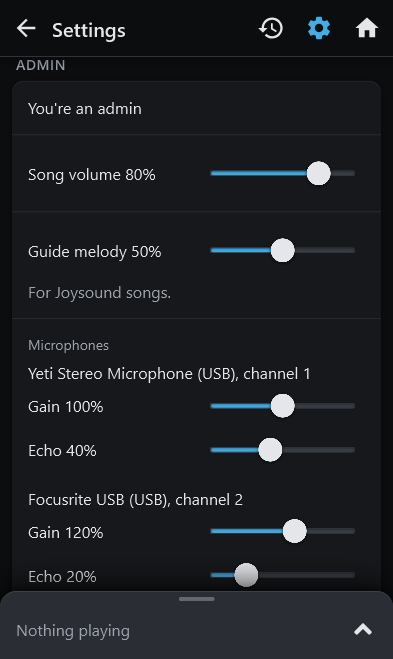
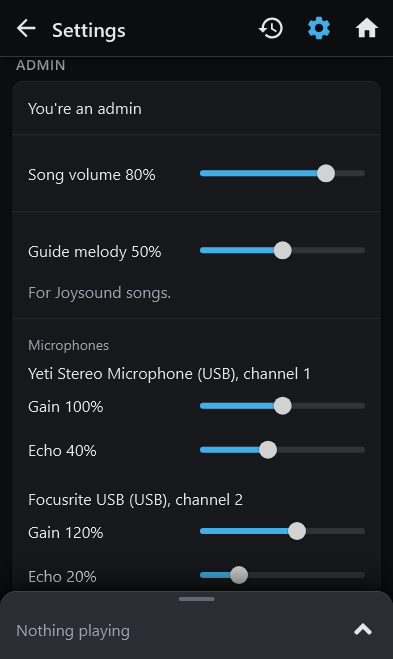
Phone: the phone's own sliders again
The glass round the sliders was iOS's own effect; the user wants iOS's
slider back. The phone uses the browser's range input, tinted with the
accent; the drawn track and its tokens are gone. The TV keeps its own.

Claude-Session: https://claude.ai/code/session_01QVeND4kYoaNT3AJXVU9A6p

diff --git a/src/remocon/tokens.scss b/src/remocon/tokens.scss
@@ -56,8 +56,6 @@ $kf-line: var(--kf-line);
 $kf-border: var(--kf-border);
 // The edge of a field or an outlined control.
 $kf-border-strong: var(--kf-border-strong);
-// A slider's track past its value.
-$kf-track: var(--kf-track);
 $kf-text: var(--kf-text);
 // Secondary text: artists, ETAs, labels.
 $kf-muted: var(--kf-muted);
@@ -88,13 +86,8 @@ $kf-shadow-menu: var(--kf-shadow-menu);
 $kf-shadow-raise: var(--kf-shadow-raise);
 // A raised button in $kf-raised: the light edge and the raise.
 $kf-shadow-button: var(--kf-shadow-button);
-// Below the surface: a field, a track, the well.
+// Below the surface: a field, the choices' track, the well.
 $kf-shadow-sunken: var(--kf-shadow-sunken);
-// A slider's track: a hairline round it and the inner shadow.
-$kf-shadow-track: var(--kf-shadow-track);
-// The raise as a filter, for a shape a box-shadow wouldn't follow (a
-// slider's dot).
-$kf-drop-raise: var(--kf-drop-raise);
 // The sheet's controls, a toolbar under the queue: a hairline and a short
 // shadow upward.
 $kf-shadow-toolbar: var(--kf-shadow-toolbar);
@@ -125,10 +118,6 @@ $kf-shadow-toolbar: var(--kf-shadow-toolbar);
   // its inner shadow and its label, it's plainly a field; focused, the
   // accent (7.8:1) takes its place.
   --kf-border-strong: #3a3e46;
-  // A groove a step lighter than the card (1.7:1, with the inner shadow),
-  // so a slider at 0 still shows its track; the accent filling it to the
-  // value is 4.3:1 against it, and the thumb 8.6:1.
-  --kf-track: #3a3e46;
   // 15.5:1 (14.2:1 on a card, 11.0:1 on the sheet, 9.4:1 pressed there)
   --kf-text: #{$text};
   // 7.6:1 (7.0:1 on a card or in the well, 6.1:1 pressed; 5.4:1 on the
@@ -167,12 +156,9 @@ $kf-shadow-toolbar: var(--kf-shadow-toolbar);
     inset 0 1px 0 rgba(255, 255, 255, 0.06), 0 1px 2px rgba(0, 0, 0, 0.55),
     0 2px 6px rgba(0, 0, 0, 0.3);
   --kf-shadow-sunken: inset 0 1px 3px rgba(0, 0, 0, 0.55);
-  --kf-shadow-track:
-    inset 0 0 0 1px #{$border}, inset 0 1px 3px rgba(0, 0, 0, 0.55);
   --kf-shadow-toolbar:
     inset 0 1px 0 rgba(255, 255, 255, 0.06), 0 -1px 0 rgba(0, 0, 0, 0.45),
     0 -4px 10px rgba(0, 0, 0, 0.25);
-  --kf-drop-raise: drop-shadow(0 1px 2px rgba(0, 0, 0, 0.6));
 }
 
 // The light theme ("Graphite light"), for a bright room or a phone in
@@ -199,10 +185,6 @@ $kf-shadow-toolbar: var(--kf-shadow-toolbar);
   // A field's edge: 3.3:1, the 3:1 a component's boundary needs (3.8:1 on
   // a card, 3.5:1 on a field's fill).
   --kf-border-strong: #7d848e;
-  // A grey groove, 1.6:1 on a card (with the inner shadow), so a slider at
-  // 0 still shows its track; the accent filling it to the value is 3.7:1
-  // against it.
-  --kf-track: #c9ced5;
   // 14.8:1 (17.1:1 on a card or the sheet, 15.1:1 pressed)
   --kf-text: #{$text};
   // 5.3:1 (6.2:1 on a card or the sheet, 5.5:1 pressed; 5.3:1 in the well,
@@ -248,12 +230,8 @@ $kf-shadow-toolbar: var(--kf-shadow-toolbar);
     0 1px 2px #{color.change($shade, $alpha: 0.12)},
     0 1px 4px #{color.change($shade, $alpha: 0.08)};
   --kf-shadow-sunken: inset 0 1px 2px #{color.change($shade, $alpha: 0.12)};
-  --kf-shadow-track:
-    inset 0 0 0 1px #{color.change($shade, $alpha: 0.1)},
-    inset 0 1px 2px #{color.change($shade, $alpha: 0.12)};
   --kf-shadow-toolbar:
     0 -1px 0 #{$border}, 0 -4px 10px #{color.change($shade, $alpha: 0.05)};
-  --kf-drop-raise: drop-shadow(0 1px 2px #{color.change($shade, $alpha: 0.3)});
 }
 
 // Spacing.

diff --git a/src/remocon/pages/SettingsPage.module.scss b/src/remocon/pages/SettingsPage.module.scss
@@ -85,101 +85,15 @@
   font-size: $kf-text-body;
 }
 
-// The thumb as seen, and the track's height.
-$dot: 24px;
-$track: 6px;
-// How far the thumb's tap target reaches past its dot on each side.
-$dot-inset: calc(($kf-tap - $dot) / 2);
-
-// iOS moves a range input only from its thumb: a full tap target, of
-// which the transparent border leaves a solid dot to see, in the text's
-// color, so it shows on the fill and on the empty track alike.
-@mixin thumb {
-  box-sizing: border-box;
-  width: $kf-tap;
-  height: $kf-tap;
-  border: $dot-inset solid transparent;
-  border-radius: 50%;
-  background-color: $kf-text;
-  background-clip: padding-box;
-  // Raised: a shadow on the dot (a box-shadow would ring the tap target).
-  filter: $kf-drop-raise;
-  appearance: none;
-}
-
-// The slider: a sunken track filled with the accent up to the value, which
-// --kf-fill gives as a percent, and a solid, raised thumb. Drawn here in full:
-// iOS's own thumb is glass unless the input and its thumb both have
-// appearance: none.
-//
-// The track is drawn behind the input, from the dot's left edge at the
-// lowest value to its right edge at the highest, so the edge of the fill
-// is always under the dot. The input's own track is clear: it reaches
-// further, as far as the tap target travels.
-.track {
-  position: relative;
-  display: flex;
+// The slider itself is the phone's own (on an iPhone, iOS's), tinted with
+// the accent where the browser allows, and a full tap target tall.
+.slider input {
   min-width: 0;
+  width: 100%;
+  height: $kf-tap;
+  margin: 0;
+  accent-color: $kf-accent;
+  cursor: pointer;
 
-  &::before {
-    content: "";
-    position: absolute;
-    top: calc(50% - $track / 2);
-    right: $dot-inset;
-    left: $dot-inset;
-    height: $track;
-    border-radius: calc($track / 2);
-    background: linear-gradient(
-      to right,
-      $kf-accent var(--kf-fill),
-      $kf-track var(--kf-fill)
-    );
-    // Sunk into the card, as a field is.
-    box-shadow: $kf-shadow-track;
-  }
-
-  input {
-    // Over the track.
-    position: relative;
-    flex: 1;
-    min-width: 0;
-    height: $kf-tap;
-    margin: 0;
-    background: none;
-    appearance: none;
-    cursor: pointer;
-
-    &::-webkit-slider-runnable-track {
-      height: $track;
-      background: none;
-    }
-
-    &::-moz-range-track {
-      height: $track;
-      background: none;
-    }
-
-    &::-webkit-slider-thumb {
-      @include thumb;
-      // Centered on the track.
-      margin-top: calc(($track - $kf-tap) / 2);
-    }
-
-    &::-moz-range-thumb {
-      @include thumb;
-    }
-
-    // The dot a step larger while held.
-    @include kf-pressed {
-      &::-webkit-slider-thumb {
-        border-width: calc($dot-inset - 2px);
-      }
-
-      &::-moz-range-thumb {
-        border-width: calc($dot-inset - 2px);
-      }
-    }
-
-    @include kf-focus-visible;
-  }
+  @include kf-focus-visible;
 }

diff --git a/tests/e2e/remote.spec.ts b/tests/e2e/remote.spec.ts
@@ -13,7 +13,6 @@ import {
   displayCall,
   expect,
   NICKNAME,
-  sliderFill,
   test,
 } from "./fixtures";
 
@@ -1822,14 +1821,11 @@ test.describe("the guide melody slider", () => {
     await expect(slider).toBeEnabled();
     await expect(slider).toHaveValue("0");
     expect((await slider.boundingBox())!.height).toBeGreaterThanOrEqual(44);
-    // Its track is filled with the accent up to the level: none at 0.
-    expect(await sliderFill(slider)).toBe(0);
     await slider.fill("0.7");
     await expect
       .poll(async () => (await liveState(remoconUrl)).guideMelodyLevel)
       .toBe(0.7);
     await expect(slider).toHaveValue("0.7");
-    expect(await sliderFill(slider)).toBeCloseTo(70);
     // Its label shows the level in percent.
     await expect(remote.getByText("Guide melody 70%")).toBeVisible();
 
@@ -1848,9 +1844,6 @@ test.describe("the guide melody slider", () => {
     await remote.mouse.move(box.x + box.width * 0.3, y, { steps: 10 });
     await expect(slider).not.toHaveValue("0.7");
     expect(sent).toEqual([]);
-    // Held, its track fills to where the thumb is.
-    const held = Number(await slider.inputValue());
-    await expect.poll(() => sliderFill(slider)).toBeCloseTo(held * 100);
     await remote.mouse.up();
     const level = Number(await slider.inputValue());
     expect(level).toBeLessThan(0.6);
@@ -1907,7 +1900,6 @@ test.describe("the song volume and mic sliders", () => {
       .toBe(40);
     await expect(volume).toHaveValue("40");
     await expect(remote.getByText("Song volume 40%")).toBeVisible();
-    expect(await sliderFill(volume)).toBe(40);
   });
 
   test("a slider dragged back to where it started follows the live level again", async ({
@@ -1996,9 +1988,6 @@ test.describe("the song volume and mic sliders", () => {
     // The labels show the levels, as the display's do.
     await expect(remote.getByText("Gain 123%")).toBeVisible();
     await expect(remote.getByText("Echo 40%")).toBeVisible();
-    // The tracks fill to them: gain out of 200 %, echo out of 100 %.
-    expect(await sliderFill(slider(mics[1], "Gain"))).toBeCloseTo(61.5);
-    expect(await sliderFill(slider(mics[1], "Echo"))).toBe(0);
 
     await slider(mics[1], "Echo").fill("63");
     await expect.poll(() => sent).toEqual([{ id: mics[1].id, echo: 63 }]);
@@ -2006,7 +1995,6 @@ test.describe("the song volume and mic sliders", () => {
       .poll(async () => (await liveState(karafriends.remoconUrl)).mics)
       .toEqual([mics[0], { ...mics[1], echo: 63 }]);
     await expect(slider(mics[1], "Echo")).toHaveValue("63");
-    expect(await sliderFill(slider(mics[1], "Echo"))).toBe(63);
   });
 });
 

diff --git a/src/remocon/pages/SettingsPage.tsx b/src/remocon/pages/SettingsPage.tsx
@@ -232,30 +232,26 @@ const LevelSlider = ({
   });
 
   const shown = held ?? value;
-  // The track fills to the value, held or live (SettingsPage.module.scss).
-  const fill = { "--kf-fill": `${((shown - min) / (max - min)) * 100}%` };
 
   return (
     <label className={styles.slider}>
       {`${label} ${Math.round(shown * scale)}%`}
-      <span className={styles.track} style={fill as React.CSSProperties}>
-        <input
-          ref={input}
-          aria-label={name}
-          type="range"
-          min={min}
-          max={max}
-          step={step}
-          value={shown}
-          onChange={(e) => setHeld(Number(e.target.value))}
-          onPointerDown={(e) => (start.current = e.currentTarget.value)}
-          onPointerUp={(e) => {
-            if (e.currentTarget.value === start.current) setHeld(null);
-          }}
-          onPointerCancel={() => setHeld(null)}
-          onBlur={() => setHeld(null)}
-        />
-      </span>
+      <input
+        ref={input}
+        aria-label={name}
+        type="range"
+        min={min}
+        max={max}
+        step={step}
+        value={shown}
+        onChange={(e) => setHeld(Number(e.target.value))}
+        onPointerDown={(e) => (start.current = e.currentTarget.value)}
+        onPointerUp={(e) => {
+          if (e.currentTarget.value === start.current) setHeld(null);
+        }}
+        onPointerCancel={() => setHeld(null)}
+        onBlur={() => setHeld(null)}
+      />
     </label>
   );
 };

diff --git a/CHANGELOG.md b/CHANGELOG.md
@@ -50,7 +50,7 @@ The product round: the phone remote, the display, settings and party-time failur
 - Phone sheet: the now-playing sheet is a lighter layer above the lists, with rounded top corners, a grab handle and a stronger shadow, and the queue's rows sit on it with no fill of their own (in the light theme, a white sheet over a light grey page and lists). The song playing shows only on the bar, under a "Now playing" label; the open queue lists just the songs waiting, under "Up next". Once open, the bar's title opens the song's page (for ad-hoc lyrics) and folds the sheet.
 - Phone search takes less room: Title and Artist are two small chips on one row under the box, and the source (All, DAM or Joysound) moves into a small menu behind a button at the row's end, which shows the source when it isn't All. The profile is now Settings (a gear in the top bar, 設定 in Japanese), in groups (You, This phone, On the TV, Admin), and its choices (Language, Readings, Theme, and the lyrics on the TV, also on a Joysound song's page) are one rounded row with the picked one filled and ticked. Old links to the profile still open it.
 - The TV's Up next (the strip and the idle list) shows each singer as the initial in its circle, without the nickname; the Now playing card keeps it. A title or artist too long for its place, on the TV or the phone (search results, the queue, history, the now-playing bar, the song and artist pages, the top bar), slides slowly to its end and back, waiting 2 s at each end, instead of ending in an ellipsis; it stays still when the device asks for reduced motion (on Windows, Animation effects off).
-- Darker colors ("Graphite") with real depth on the phone and the TV: lists and settings are rounded cards with soft shadows, the queue sheet is a lighter layer with a long shadow, fields and slider tracks are sunken, and buttons and picked choices are raised; the phone's light theme matches. Sliders in Settings, on both, are a clear track filled with the accent up to the value with a solid thumb, instead of Windows' blue dot in a ring on the TV and a lone dot on the phone (and no iOS glass thumb).
+- Darker colors ("Graphite") with real depth on the phone and the TV: lists and settings are rounded cards with soft shadows, the queue sheet is a lighter layer with a long shadow, fields and slider tracks are sunken, and buttons and picked choices are raised; the phone's light theme matches. The TV's sliders in Settings are a clear track filled with the accent up to the value, with a solid thumb, instead of Windows' blue dot in a ring; the phone keeps the phone's own slider (iOS's on an iPhone), tinted with the accent.
 - The open queue sheet reads as three blocks: the song playing, the queue in a well under "Up next", and a toolbar of its own. The toolbar is grouped: a switch between controls and emotes, a big play button between restart and skip, and the key as one stepper that shows its sign (+2, −1). In supervised mode, a phone that can't control the song says so in one line.
 - Joysound songs get pitch bars too: the display reads the melody from the song's guide melody (the third channel of its sound) as it starts, and draws the same bars as for DAM songs, with each mic's pitch over them. On three real songs the notes match DAM's own melody data over 93–98 % of the sung time. The Settings switch is now "Pitch bars" and covers both.
 

diff --git a/notes/PLAN-ui-round.md b/notes/PLAN-ui-round.md
@@ -54,3 +54,4 @@ Merge each branch as it is reviewed. Then: place U1's progress line in U3's shee
 - **C1 decision: Graphite**, with the page's layers: page `#0c0d0f` (flat), lists and setting groups as rounded cards on `#16181b` with a soft shadow and a faint light top edge, the queue sheet `#2a2d33` with a light top edge and a long shadow, the top bar with a hairline and short shadow, fields and slider tracks sunken (`#08090a`, inner shadow), the picked segment and slider thumbs raised; lines `#2f333a`/`#3a3e46`, text `#e4e6e9`, grey text `#9ca3ad`, accent `#43aee6` (on-accent `#0c0d0f`). A matching light theme for the phone. The TV the same (its video area stays black).
 - **The sheet's bottom bar** (added to C1): "a bunch of randomly placed icons with no real grouping". Three zones on one row: a two-way Controls/Emotes switch on the left; restart, a big raised play/pause and skip as one transport group in the middle; the key as one sunken stepper pill (♭, a signed value, ♯, a small "Key" label) on the right.
 - **Distinct sections in the open sheet** (added to C1): the Now playing bar as the header on the sheet color; Up next in an inset, sunken, rounded well with its caps heading above; the controls as a footer with its own top edge.
+- **The phone's sliders are native again** (the user's call): the "glass" was iOS's own slider effect. The phone uses the browser's range input with `accent-color`; S1's drawn track, `--kf-fill` checks on the phone and the `--kf-track`/`--kf-shadow-track`/`--kf-drop-raise` phone tokens are gone. The TV keeps S1's slider.
